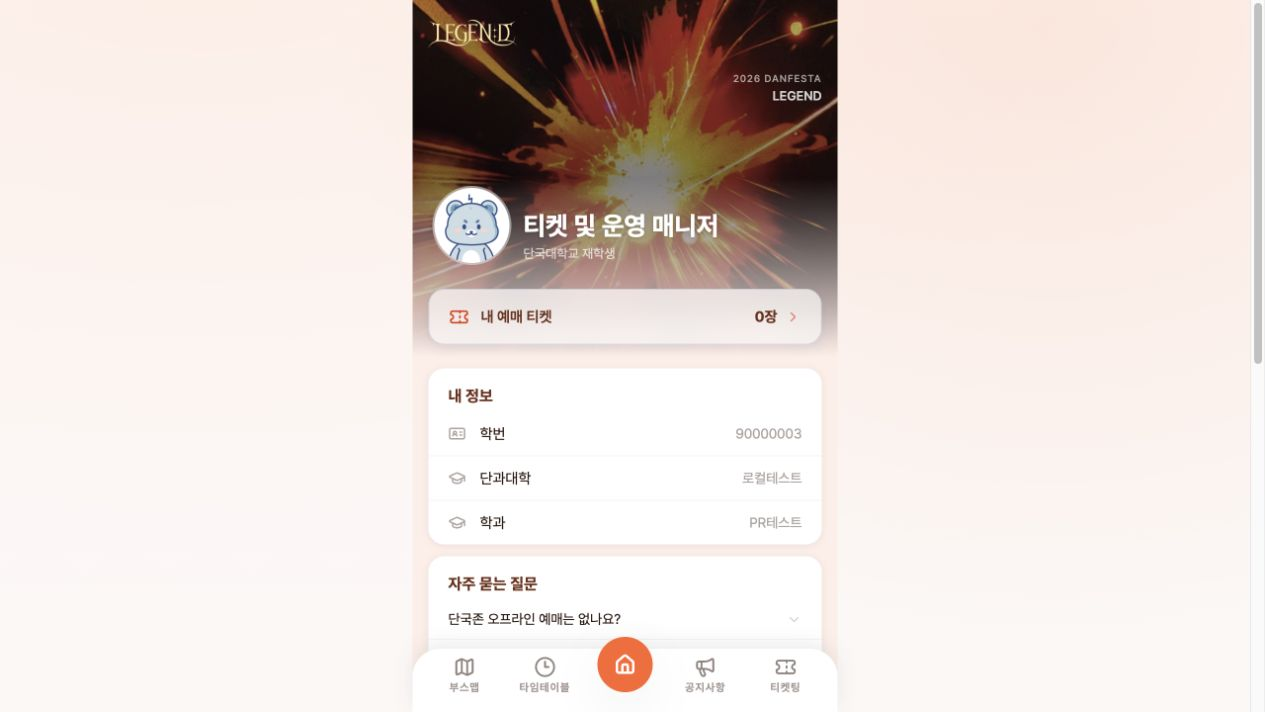
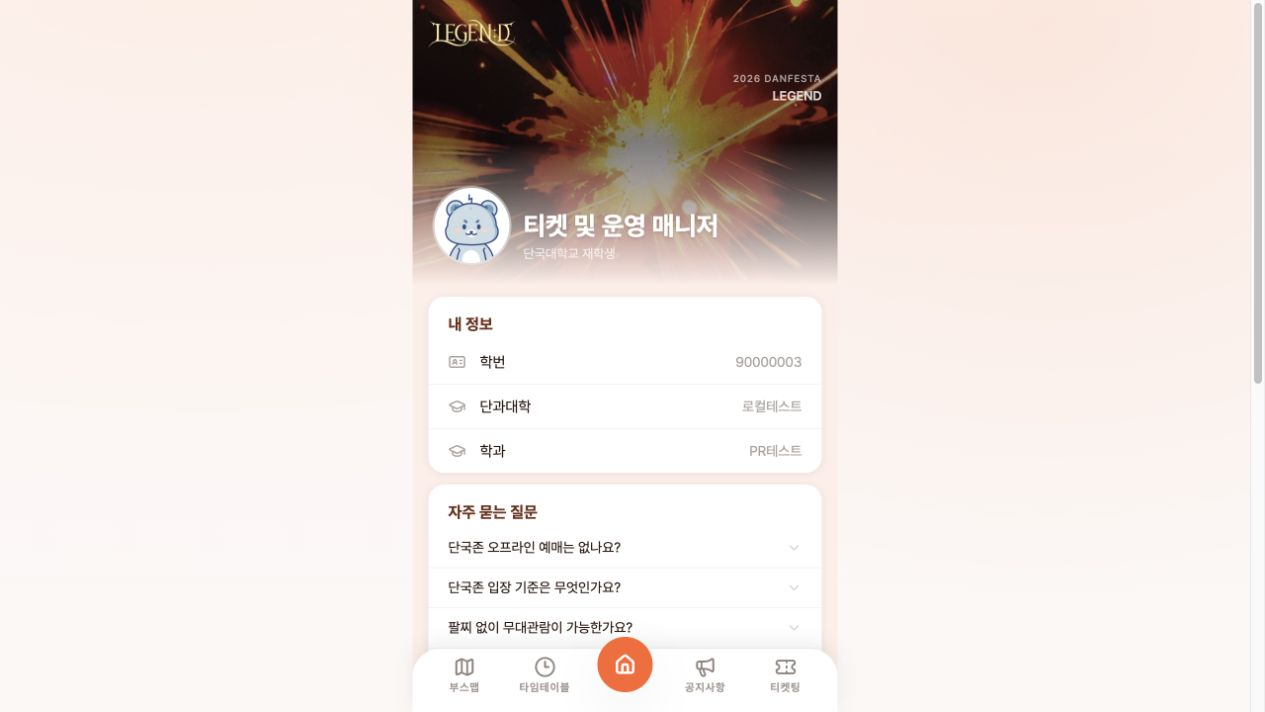
fix(DANZ-368): close my tickets when ticketing is off

diff --git a/src/routes/ticketing/__tests__/TicketingApp.gate.test.tsx b/src/routes/ticketing/__tests__/TicketingApp.gate.test.tsx
@@ -1,0 +1,70 @@
+// @vitest-environment jsdom
+import { act } from "react";
+import { createRoot, type Root } from "react-dom/client";
+import { MemoryRouter, Route, Routes } from "react-router-dom";
+import { afterEach, beforeEach, describe, expect, it, vi } from "vitest";
+import TicketingApp from "@/routes/ticketing/TicketingApp";
+import { authStore } from "@/store/common/authStore";
+import { setTicketingEnabled } from "@/lib/app/festival/festivalCalendar";
+
+// Page data is outside this route-policy test; use the real router, auth guard and OFF gate.
+vi.mock("@/routes/ticketing/my-ticket/MyTicket", () => ({ default: () => <p>보유 티켓 목록</p> }));
+vi.mock("@/routes/ticketing/ticketing/Ticketing", () => ({ default: () => <p>예매 화면</p> }));
+vi.mock("@/routes/ticketing/login/Login", () => ({ default: () => <p>로그인 양식</p> }));
+vi.mock("@/routes/ticketing/signup/Signup", () => ({ default: () => <p>회원가입 양식</p> }));
+vi.mock("@/routes/ticketing/reset-password/ResetPassword", () => ({ default: () => <p>비밀번호 변경 양식</p> }));
+vi.mock("@/components/ticketing/layout/UserLayout", async () => {
+  const { Outlet } = await import("react-router-dom");
+  return { UserLayout: Outlet };
+});
+
+(globalThis as { IS_REACT_ACT_ENVIRONMENT?: boolean }).IS_REACT_ACT_ENVIRONMENT = true;
+let container: HTMLDivElement;
+let root: Root;
+beforeEach(() => {
+  authStore.setSession({
+    tokens: { accessToken: `header.${btoa(JSON.stringify({ sub: "test", role: "ROLE_USER", exp: 9999999999 }))}.signature`, refreshToken: "refresh", expiresIn: null },
+    user: null,
+  });
+  setTicketingEnabled(false);
+  container = document.createElement("div");
+  document.body.append(container);
+  root = createRoot(container);
+});
+afterEach(async () => {
+  await act(async () => root.unmount());
+  container.remove();
+  authStore.clear();
+  setTicketingEnabled(false);
+});
+async function render(path: string) {
+  await act(async () => root.render(
+    <MemoryRouter initialEntries={[path]}>
+      <Routes><Route path="/ticket/*" element={<TicketingApp />} /></Routes>
+    </MemoryRouter>,
+  ));
+}
+
+describe("티켓팅 OFF 경로 정책", () => {
+  it.each(["/ticket/my-ticket", "/ticket/myticket?eventId=15", "/ticket/ticketing"])("OFF이면 직접 접근한 %s도 안내 화면을 보여준다", async (path) => {
+    await render(path);
+    expect(container.querySelector("#service-closed-title")).not.toBeNull();
+    expect(container.textContent).not.toContain("보유 티켓 목록");
+    expect(container.textContent).not.toContain("예매 화면");
+  });
+  it.each([["login", "로그인 양식"], ["signup", "회원가입 양식"], ["reset-password", "비밀번호 변경 양식"]])("OFF여도 %s는 유지한다", async (path, text) => {
+    await render(`/ticket/${path}`);
+    expect(container.textContent).toContain(text);
+    expect(container.querySelector("#service-closed-title")).toBeNull();
+  });
+  it("열려 있는 내 티켓도 OFF로 바뀌면 닫히고 ON이면 다시 열린다", async () => {
+    setTicketingEnabled(true);
+    await render("/ticket/my-ticket");
+    expect(container.textContent).toContain("보유 티켓 목록");
+    await act(async () => setTicketingEnabled(false));
+    expect(container.querySelector("#service-closed-title")).not.toBeNull();
+    expect(container.textContent).not.toContain("보유 티켓 목록");
+    await act(async () => setTicketingEnabled(true));
+    expect(container.textContent).toContain("보유 티켓 목록");
+  });
+});

diff --git a/src/routes/mypage/__tests__/MyPage.ticketing.test.tsx b/src/routes/mypage/__tests__/MyPage.ticketing.test.tsx
@@ -1,0 +1,56 @@
+// @vitest-environment jsdom
+import { act } from "react";
+import { createRoot, type Root } from "react-dom/client";
+import { MemoryRouter } from "react-router-dom";
+import { QueryClient, QueryClientProvider } from "@tanstack/react-query";
+import { afterEach, beforeEach, expect, it, vi } from "vitest";
+import MyPage from "@/routes/mypage/MyPage";
+import { authStore } from "@/store/common/authStore";
+import { setTicketingEnabled } from "@/lib/app/festival/festivalCalendar";
+
+const getMyTickets = vi.hoisted(() => vi.fn());
+vi.mock("@/api/ticketing/ticketApi", () => ({ ticketApi: { getMyTickets } }));
+(globalThis as { IS_REACT_ACT_ENVIRONMENT?: boolean }).IS_REACT_ACT_ENVIRONMENT = true;
+let container: HTMLDivElement;
+let root: Root;
+let client: QueryClient;
+beforeEach(() => {
+  authStore.setSession({
+    tokens: { accessToken: `header.${btoa(JSON.stringify({ sub: "test", role: "ROLE_USER", exp: 9999999999 }))}.signature`, refreshToken: "refresh", expiresIn: null },
+    user: { id: "1", name: "테스트 학생", role: "student", department: "테스트학과", studentId: "90000001", college: "테스트대학" },
+  });
+  getMyTickets.mockReset().mockResolvedValue([{ id: "ticket-1", status: "issued", eventName: "축제 DAY 1", eventDate: "2026-09-01", issuedAt: "2026-08-31", seat: "1", qrCodeUrl: "" }]);
+  client = new QueryClient({ defaultOptions: { queries: { retry: false } } });
+  container = document.createElement("div");
+  document.body.append(container);
+  root = createRoot(container);
+});
+afterEach(async () => {
+  await act(async () => root.unmount());
+  client.clear();
+  container.remove();
+  authStore.clear();
+  setTicketingEnabled(false);
+});
+async function render() {
+  await act(async () => root.render(<QueryClientProvider client={client}><MemoryRouter><MyPage /></MemoryRouter></QueryClientProvider>));
+  await act(async () => { await new Promise(resolve => setTimeout(resolve, 10)); });
+}
+it("OFF여도 내정보와 계정 관리는 열리지만 티켓 조회 요청과 메뉴는 없다", async () => {
+  setTicketingEnabled(false);
+  await render();
+  expect(container.textContent).toContain("테스트 학생");
+  expect(container.textContent).toContain("90000001");
+  expect(container.textContent).toContain("계정 관리");
+  expect(container.textContent).not.toContain("내 예매 티켓");
+  expect(getMyTickets).not.toHaveBeenCalled();
+});
+it("ON에서 조회한 티켓 수량도 OFF로 바뀌면 숨긴다", async () => {
+  setTicketingEnabled(true);
+  await render();
+  expect(container.textContent).toContain("내 예매 티켓");
+  expect(container.textContent).toContain("1장");
+  await act(async () => setTicketingEnabled(false));
+  expect(container.textContent).not.toContain("내 예매 티켓");
+  expect(container.textContent).toContain("테스트 학생");
+});

diff --git a/src/routes/mypage/MyPage.tsx b/src/routes/mypage/MyPage.tsx
@@ -16,6 +16,7 @@ import { cn } from "@/components/common/ui/utils";
 import { authLogout, withdrawUser } from "@/api/app/auth/authApi";
 import { studentProfileApi } from "@/api/app/auth/studentProfileApi";
 import { useMyTicketsQuery } from "@/hooks/ticketing/useMyTicketsQuery";
+import { useTicketingEnabled } from "@/hooks/app/festival/useTicketingEnabled";
 import { authStore } from "@/store/common/authStore";
 import {
   AlertDialog,
@@ -162,6 +163,7 @@ function ListRow({
 
 function MyPage() {
   const navigate = useNavigate();
+  const ticketingEnabled = useTicketingEnabled();
   const session = useSyncExternalStore(
     authStore.subscribe,
     authStore.getSnapshot,
@@ -202,7 +204,7 @@ function MyPage() {
     };
   }, [isLoggedIn, session.role, session.tokens, user?.college, user?.name]);
 
-  const ticketsQuery = useMyTicketsQuery(isLoggedIn);
+  const ticketsQuery = useMyTicketsQuery(isLoggedIn && ticketingEnabled);
 
   if (!isLoggedIn) {
     return (
@@ -260,7 +262,7 @@ function MyPage() {
             로그인해 주세요
           </h2>
           <p className="mb-7 text-[13px] leading-relaxed" style={{ color: "rgba(28,43,106,0.55)" }}>
-            로그인 후 예매 내역과 계정 정보를 확인할 수 있어요.
+            {ticketingEnabled ? "로그인 후 예매 내역과 계정 정보를 확인할 수 있어요." : "로그인 후 계정 정보를 확인할 수 있어요."}
           </p>
 
           <button
@@ -387,6 +389,7 @@ function MyPage() {
         </div>
 
         {/* 티켓 버튼 */}
+        {ticketingEnabled && (
         <div className="relative px-4 pb-3 pt-1">
         <button
           onClick={() => navigate("/ticket/my-ticket")}
@@ -415,6 +418,7 @@ function MyPage() {
           </div>
         </button>
       </div>
+        )}
       </div>
 
       <div className="mt-2" />

diff --git a/src/routes/ticketing/TicketingApp.tsx b/src/routes/ticketing/TicketingApp.tsx
@@ -182,22 +182,16 @@ export default function TicketingApp() {
           </Route>
 
           {/*
-            티켓팅 화면은 축제 설정에서 티켓팅을 켠 동안만 열린다.
+            예매와 내 티켓 화면은 축제 설정에서 티켓팅을 켠 동안만 열린다.
             게이트를 UserLayout 바깥에 두어야 안내 화면이 헤더 없이 화면을 꽉 채운다.
           */}
           <Route element={<TicketingGate />}>
             <Route element={<UserLayout />}>
               <Route element={<RequireStudentAuth />}>
                 <Route path="ticketing" element={<Ticketing />} />
-
+                <Route path="my-ticket" element={<MyTicket />} />
+                <Route path="myticket" element={<LegacyMyTicketRedirect />} />
               </Route>
-            </Route>
-          </Route>
-
-          <Route element={<UserLayout />}>
-            <Route element={<RequireStudentAuth />}>
-              <Route path="my-ticket" element={<MyTicket />} />
-              <Route path="myticket" element={<LegacyMyTicketRedirect />} />
             </Route>
           </Route>
 

diff --git a/src/routes/common/TicketingGate.tsx b/src/routes/common/TicketingGate.tsx
@@ -1,7 +1,7 @@
 // 역할: 티켓팅 화면을 축제 설정의 티켓팅 사용 여부로 잠근다.
 //
-// 관리자 설정에서 티켓팅을 끄면 신규 예매 화면이 안내 화면으로 바뀐다.
-// 내 정보/로그인/기존 내 티켓은 티켓팅과 무관하게 항상 열려 있다.
+// 관리자 설정에서 티켓팅을 끄면 예매와 내 티켓 화면이 안내 화면으로 바뀐다.
+// 내 정보/로그인/회원가입은 티켓팅과 무관하게 항상 열려 있다.
 import { useSyncExternalStore } from "react"
 import { getTicketingBackgroundImageUrl, subscribeFestivalSettings } from "@/lib/app/festival/festivalCalendar"
 import { Outlet } from "react-router-dom"
